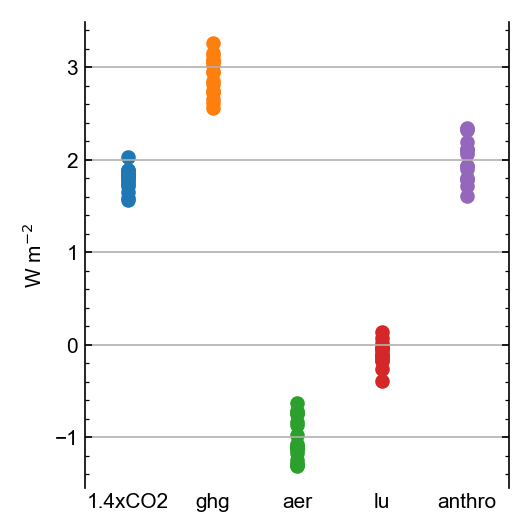
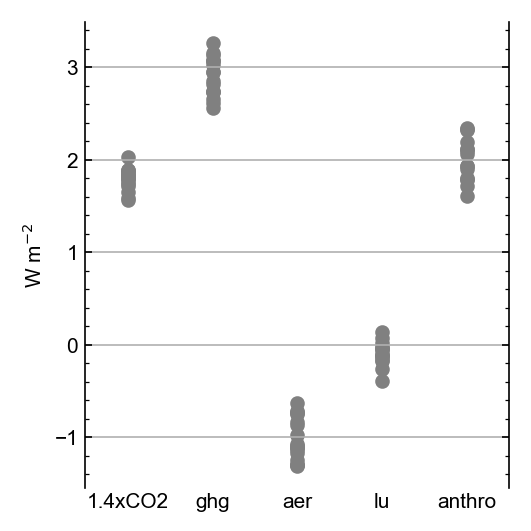
make figure 1 more boring

diff --git a/scripts/analyse_timeslices.py b/scripts/analyse_timeslices.py
@@ -72,7 +72,7 @@ for iexp, experiment in enumerate(experiments):
     if experiment == "4xCO2":
         data = data * 0.2266
         label = "1.4xCO2"
-    ax.scatter(np.ones_like(data) * iexp, data)
+    ax.scatter(np.ones_like(data) * iexp, data, color="#808080")
     ax.text(iexp, -1.8, label, ha="center", va="bottom")
 ax.grid(axis='y')
 ax.axes.get_xaxis().set_visible(False)
